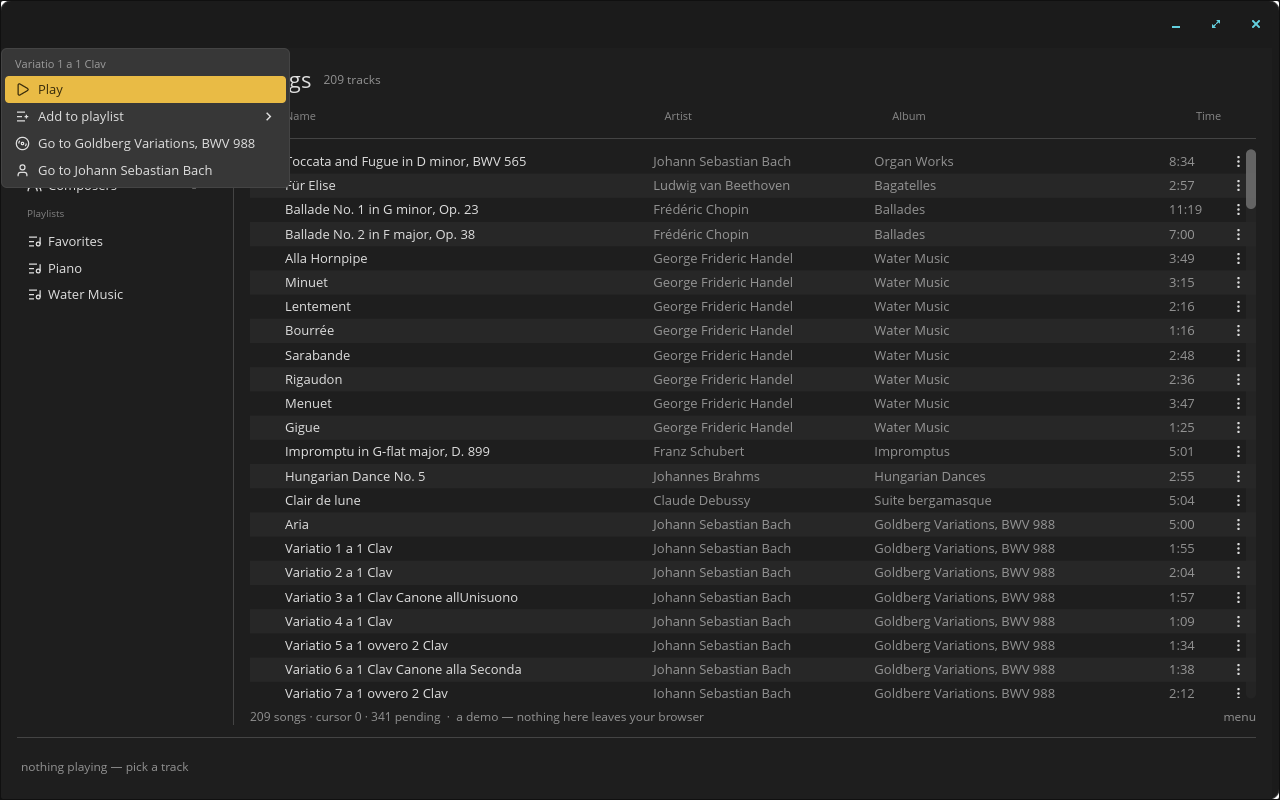
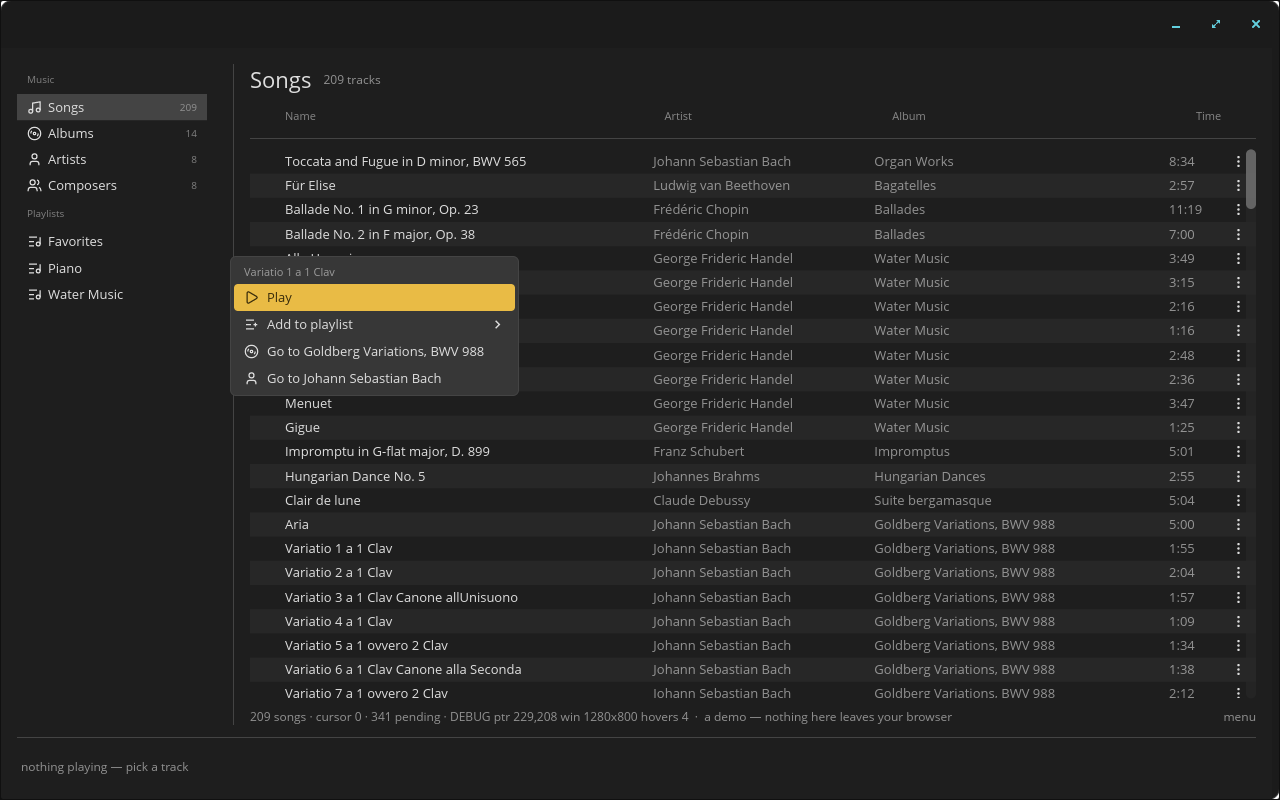
A selectable page title, and what the other two questions turned up
The page title is `selectable_text` now — iced's `text` is painted rather than
a DOM node and cannot be selected, and libcosmic carries the widget for it,
which is why pop-os's fork has `selected_fill` and `selected_text_color` on
`text::Style` at all. `selectable-title.png` is "Songs" highlighted. The
selection is drawn by the widget, so the browser's own `getSelection()` is
still empty and it does not reach the system clipboard on its own.

The menu's position was never wrong. A screenshot had it pinned to the
top-left whatever was clicked, which looks exactly like `fit` clamping against
a window it cannot measure — and a temporary readout said otherwise:
`win 1280x800`, so resize events work, and `ptr 0,0 hovers 0`, so the pointer
had never been reported. A single synthetic `mouse.move`, and bursts of them,
outrun this program's 50ms sampling tick, so the menu opened at the last
position it had seen. Paced moves put it exactly under the pointer.
`row-menu.png` is replaced with one taken that way. Same shape as the reveal's
rAF sampler measuring a page nobody was served: read what the program believes
before theorising about what it does.

Frosted glass is the compositor's. libcosmic's contribution is
`theme.transparent = blur_enabled && frosted`, `BlurEnabled` arrives as a
Wayland event under `cfg(wayland_platform)`, and the blur is cosmic-comp's
behind the surface — there is no blur pass in the renderer to borrow, only a
[…]

diff --git a/iced/src/main.rs b/iced/src/main.rs
@@ -4505,7 +4505,7 @@ impl App {
         if titled {
             main = main.push(
                 row![
-                    text(peer.source.title().to_string()).size(22),
+                    cosmic::widget::selectable_text(peer.source.title().to_string()).size(22),
                     text(format!("{} tracks", peer.rows().len()))
                         .size(12)
                         .class(cosmic::theme::Text::Custom(style::dim)),

diff --git a/CLAUDE.md b/CLAUDE.md
@@ -3119,6 +3119,67 @@ next. Once the shape above was understood and applied in one pass:
 **59 → 23 → 8 → 3 → 0**. The difference was not effort, it was reading the
 whole error set and looking up every target type *before* editing.
 
+### Three things asked of it in a browser, and what each one showed
+
+**Selecting text.** A page title drawn with `text` cannot be selected — iced's
+text is painted, not a DOM node. libcosmic carries `selectable_text` for
+exactly this, which is *why* pop-os's fork put `selected_fill` and
+`selected_text_color` on `text::Style` at all. The page title uses it now:
+`selectable-title.png` is "Songs" highlighted. Two things to know — the
+selection is **drawn by the widget**, so `getSelection()` in the browser is
+still empty and it does not reach the system clipboard on its own; and this is
+one title, not a policy. Every other label here is still `text`.
+
+**The menu's position was never wrong, and the harness was.** A screenshot had
+it in the top-left corner whatever was clicked, which looks exactly like
+`fit` clamping against a window it cannot measure. It was neither: a temporary
+readout in the status line said `win 1280x800` (so `resize_events` works) and
+`ptr 0,0 · hovers 0` (so the pointer had never been reported). Playwright's
+`mouse.move` in one hop, and a burst of synthetic moves, are delivered faster
+than this program samples them on its 50ms tick — so the menu opened at the
+last position it had actually seen, which was the origin. Paced moves put it
+exactly under the pointer.
+
+**The instrument was pointed at the wrong thing again**, which this file has a
+section about already: the rAF sampler measuring a page nobody was served.
+Same shape, and the same fix — read what the program believes before theorising
+about what it does.
+
+### Frosted glass is the compositor's, and that decides where it can work
+
+libcosmic's own code is unambiguous:
+
+```rust
+let new_blur = self.blur_enabled && self.app.core().frosted(theme.cosmic());
+theme.transparent = new_blur;
+```
+
+The toolkit's entire contribution is **going transparent**. `blur_enabled`
+arrives as `wayland::Event::BlurEnabled`, under `#[cfg(wayland_platform)]`,
+and the blur itself is cosmic-comp's, behind the surface. There is no blur in
+the renderer to borrow instead: the fork's shaders are quad, image, triangle,
+blit, color and vertex, and the only `blur` in any of them is a quad's *shadow*
+radius.
+
+So it blurs **on Wayland, with a frosted theme, and nowhere else** — not on
+X11, where that arm is compiled out, and not in a browser, where the whole
+program is one canvas with nothing behind it.
+
+**And on a COSMIC desktop it would still not frost this menu.** The row menu
+here is `pin` inside a `stack!` — it lives *inside the app's one surface* — so
+compositor blur would blur what is behind the **window**: the wallpaper, other
+windows. You would see a blurred desktop through the menu, not a blurred track
+list. Frosting the menu against the list needs the menu to be its own surface,
+which is what libcosmic's `context_menu` can be (`window_id`,
+`on_surface_action`) and what `pin` can never be.
+
+`translucent-not-frosted.png` is the half that does port, and it is the
+argument against doing it: the panel at 72% over the track list, with "George
+Frideric Handel" perfectly legible straight through it. **Transparency without
+blur is not frosted glass, it is a menu you can read the page through**, and
+it is worse than opaque. Reverted; the screenshot is kept because it is the
+reason.
+
 ### Still not done
 
 - **Run, in a browser.** `harken-on-libcosmic.png` is the whole client —
